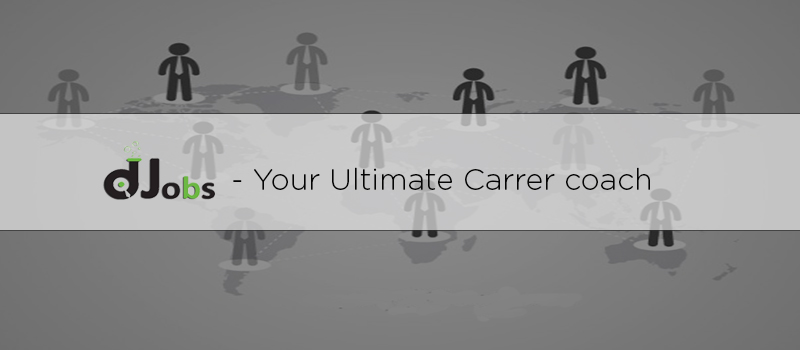
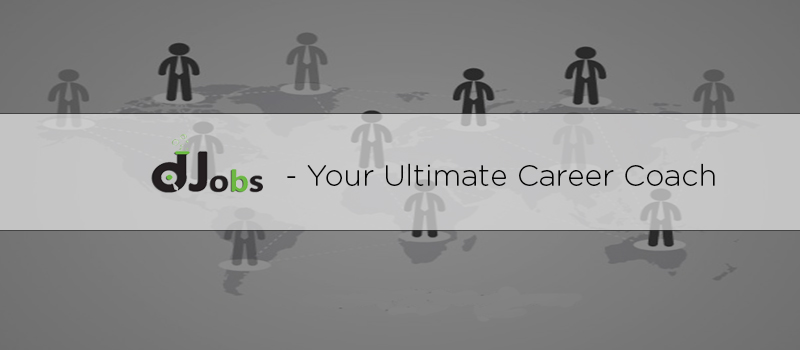
beta final

Changed region(s): [[0.125, 0.4286, 0.9062, 0.5714]]

diff --git a/about.html b/about.html
@@ -66,7 +66,7 @@ body {
                         <li style="height:50%;"><a href="about.html">About</a></li>
                         <li style="height:50%;"><a href="blog.html">Blog</a></li>
                         <li style="height:50%;"><a href="service.html">Services</a></li>
-                        <li style="height:50%;"><a href="talents.html">Available Talents</a></li>
+                        <!--<li style="height:50%;"><a href="talents.html">Available Talents</a></li>-->
                         <li style="height:50%;"><a href="news.html">News</a></li>
                         <li style="height:50%;"><a href="contact.html">Contact</a></li>
                     </ul>
@@ -96,7 +96,7 @@ body {
                         <li style="height:50%;"><a style="color:#000;" href="about.html">About</a></li>
                         <li style="height:50%;"><a style="color:#000;" href="blog.html">Blog</a></li>
                         <li style="height:50%;"><a style="color:#000;" href="service.html">Services</a></li>
-                        <li style="height:50%;"><a style="color:#000;" href="talent.html">Available Talents</a></li>
+                        <!--<li style="height:50%;"><a href="talents.html">Available Talents</a></li>-->
                         <li style="height:50%;"><a style="color:#000;" href="news.html">News</a></li>
                         <li style="height:50%;"><a style="color:#000;" href="contact.html">Contact</a></li>
                     </ul>
@@ -122,7 +122,7 @@ body {
                     <p style="font-size:18px;padding-left:20px">
                         We started to work as placement firm working for our customer's needs that we are still doing. While doing this we faced a lot of challenges starting from convincing candidates to attend interview at company's locations and vice versa. Bringing candidates and the panel on the same board was a big challenge.
                         <br> This triggered us to think of a solution as, why cant we <b>find candidates near to companies or companies near to candidates.</b> We searched for readily available platforms. We could find none. We did a small experiment on solution model and found success. We thought of using this technology to address this problem efficiently. Thus the recruitment app "djobs" was born!
-                        <br><b>Djobs</b> helps candidates to find jobs near their home location or preferred location. For example, you stay in Malleswaram and with the help of djobs you can find jobs around Malleswaram or any of your preferred locations. As a recruiter I have faced friend and even distant relatives sending resumes of their kith and kin asking for suitable jobs. Like this we used to get lot of applications. We tried to get them placed but we were never 100% successful as profiles also had to match the requirements.
+                        <br><b>djobs</b> helps candidates to find jobs near their home location or preferred location. For example, you stay in Malleswaram and with the help of djobs you can find jobs around Malleswaram or any of your preferred locations. As a recruiter I have faced friend and even distant relatives sending resumes of their kith and kin asking for suitable jobs. Like this we used to get lot of applications. We tried to get them placed but we were never 100% successful as profiles also had to match the requirements.
                         <br> As per the job survey there are more than 20% hike in hiring year on year from 2014 onwards. We also know that there are more talents available. But there are no proper platform to connect the dots. Few lucky get through in the interview drives and few will not. We wanted to bridge this gap. One such weapon was Hackathon. However, in hackathons only the ones who attended other hackathons used to attend. To fix this issue, we thought of creating more awarenesswe to attract more and fresh talents to hackathons. Thus came our tech meetups called - <b>"Bangalore Tech Talk"</b>.
                         <br> Under this meetup platform, we bring industry specialists and share the trending technologies with aspiring attendees. This is an on going project. Because as some on say <b>"Never stop learning as the life never stops teaching"</b> Despite all these the gap could not be closed. Ironically the unemploymet and the opportunities were raising side by side. This gave us the idea of Notifications feature in our app djobs. Anyways those who are looking for jobs would / should surely be keeping their ears and eyes open on job related events too such as - Job related events here means Meetups, Hands on sessions, tech talks, job talks, walk-in interviews, hacks, etc. djobs evolved further to suit the needs as a career coach too. Through djobs we aim to share the job opportunities availabe and also share notifications on job related topics. So <b>download djobs</b> and stay updated and tuned with trending jobs and job related informations. Search in playstore by giving "djobs dexter" to get our app. Rest is our responsibility to curate jobs and job related events for you. Now we are on a job to find you a suitable job.
                         <br>Just to backup our objective i.e. Changing the style of Hiring and making it better, we just launched <b>Dexter Exit</b>. A unique exit interview model which helps companies to achieve better brand value in the short term and better hiring positioning in the long term.</p>

diff --git a/index.html b/index.html
@@ -89,7 +89,7 @@
                         <li style="height:50%;"><a href="about.html">About</a></li>
                         <li style="height:50%;"><a href="blog.html">Blog</a></li>
                         <li style="height:50%;"><a href="service.html">Services</a></li>
-                        <li style="height:50%;"><a href="talents.html">Available Talents</a></li>
+                        <!--<li style="height:50%;"><a href="talents.html">Available Talents</a></li>-->
                         <li style="height:50%;"><a href="news.html">News</a></li>
                         <li style="height:50%;"><a href="contact.html">Contact</a></li>
                     </ul>
@@ -119,7 +119,7 @@
                         <li style="height:50%;"><a style="color:#000;" href="about.html">About</a></li>
                         <li style="height:50%;"><a style="color:#000;" href="blog.html">Blog</a></li>
                         <li style="height:50%;"><a style="color:#000;" href="service.html">Services</a></li>
-                        <li style="height:50%;"><a style="color:#000;" href="talent.html">Available Talents</a></li>
+                        <!--<li style="height:50%;"><a href="talents.html">Available Talents</a></li>-->
                         <li style="height:50%;"><a style="color:#000;" href="news.html">News</a></li>
                         <li style="height:50%;"><a style="color:#000;" href="contact.html">Contact</a></li>
                     </ul>
@@ -187,29 +187,32 @@
                 <hr style="border:2px solid #efeff4;width:260px">
                 <br>
                 <div class="row" id="service">
-                    <div class="col-sm-3 col-sm-offset-1" id="m_bottom">
-                        <a href="#">
-                            <img class="service" src="static/img/talent.jpg" width="200" height="80">
-                        </a>
-                    </div>
-                    <div class="col-sm-3 ">
-                        <a href="#">
+                    
+                    <div class="col-sm-3 col-sm-offset-1">
+                        <a href="service.html#djobs">
                             <img class="service" src="static/img/djobs.jpg" width="140" height="100">
                         </a>
                     </div>
                     <div class="col-sm-3" style="margin-left:-8%;">
-                        <a href="#">
+                        <a href="service.html#hack">
                             <img class="service" src="static/img/hack.jpg" width="200" height="100">
                         </a>
                     </div>
                     <div class="col-sm-3" style="margin-left:-3%;">
-                        <a href="#">
+                        <a href="service.html#techtalk">
                             <img class="service" src="static/img/techtalk.jpg" width="200" height="100">
+                        </a>
+                    </div>
+                    <div class="col-sm-3 " id="m_bottom">
+                        <a href="service.html#exit">
+                            <img class="service" src="static/img/exit.png" width="200" height="100">
                         </a>
                     </div>
                 </div>
                 <br>
+                <a href="service.html">
                 <h4 align="center"> Learn More >></h4>
+                </a>
                 <br>
             </div>
         </div>
@@ -236,7 +239,8 @@
                     <br>
                     <br>
                 </p>
-                <button class="btn btn-default" style="margin-left:50%;">Learn More >></button>
+                <a href="about.html">
+                <button class="btn btn-default" style="margin-left:50%;">Learn More >></button></a>
             </div>
         </div>
     </div>
@@ -362,7 +366,7 @@
                     <h3 style="text-align:center;padding-top:11%;margin-left:10%;">1st Hackathon (6 till now)</h3>
                 </div>
                 <div class="box effect2" style="margin-left:-40%;margin-bottom:5%;">
-                    <h3 style="text-align:center;padding-top:11%;margin-left:10%;">Djobs, Our 1st App</h3>
+                    <h3 style="text-align:center;padding-top:11%;margin-left:10%;">djobs, Our 1st App</h3>
                 </div>
                 <div class="arrow">
                     <div class="arrow-up" style="margin-left:-4%;"></div>
@@ -450,7 +454,7 @@ $(".upper1").click(function() {
 }
 
 #preloader {
-    position: absolute;
+    position: fixed;
     top: 0;
     left: 0;
     right: 0;

diff --git a/service.html b/service.html
@@ -23,8 +23,8 @@ body {
     transition: all 0.3s ease;
 }
 #preloader {
-    position: absolute;
-    top: 24%;
+    position: fixed;
+    top: 0%;
     left: 0;
     right: 0;
     bottom: 0;
@@ -66,7 +66,7 @@ body {
                         <li style="height:50%;"><a href="about.html">About</a></li>
                         <li style="height:50%;"><a href="blog.html">Blog</a></li>
                         <li style="height:50%;"><a href="service.html">Services</a></li>
-                        <li style="height:50%;"><a href="talents.html">Available Talents</a></li>
+                        <!--<li style="height:50%;"><a href="talents.html">Available Talents</a></li>-->
                         <li style="height:50%;"><a href="news.html">News</a></li>
                         <li style="height:50%;"><a href="contact.html">Contact</a></li>
                     </ul>
@@ -96,7 +96,7 @@ body {
                         <li style="height:50%;"><a style="color:#000;" href="about.html" >About</a></li>
                         <li style="height:50%;"><a style="color:#000;" href="blog.html">Blog</a></li>
                         <li style="height:50%;"><a style="color:#000;" href="service.html">Services</a></li>
-                        <li style="height:50%;"><a style="color:#000;" href="talent.html">Available Talents</a></li>
+                        <!--<li style="height:50%;"><a href="talents.html">Available Talents</a></li>-->
                         <li style="height:50%;"><a style="color:#000;" href="news.html">News</a></li>
                         <li style="height:50%;"><a style="color:#000;" href="contact.html">Contact</a></li>
                     </ul>
@@ -117,7 +117,7 @@ body {
     </div>
     <br>
     <div class="row" style="margin-left:10px;">
-        <div class="col-sm-12" style="float:left;border:1px solid #ccc;margin-right:5px;background:#fff;width:98%;box-shadow: 0 0 10px #cccccc;">
+        <div class="col-sm-12" style="float:left;border:1px solid #ccc;margin-right:5px;background:#fff;width:98%;box-shadow: 0 0 10px #cccccc;" id="djobs">
             <br>
             <div class="row">
                 <div class="col-sm-5">
@@ -135,7 +135,7 @@ body {
     <br>
     <br>
     <div class="row" style="margin-left:10px;">
-        <div class="col-sm-12" style="float:left;border:1px solid #ccc;margin-right:5px;background:#fff;width:98%;box-shadow: 0 0 10px #cccccc;">
+        <div class="col-sm-12" style="float:left;border:1px solid #ccc;margin-right:5px;background:#fff;width:98%;box-shadow: 0 0 10px #cccccc;" id="hack">
             <br>
             <div class="row">
                 <div class="col-sm-7">
@@ -152,7 +152,7 @@ body {
     <br>
     <br>
     <div class="row" style="margin-left:10px;">
-        <div class="col-sm-12" style="float:left;border:1px solid #ccc;margin-right:5px;background:#fff;width:98%;box-shadow: 0 0 10px #cccccc;">
+        <div class="col-sm-12" style="float:left;border:1px solid #ccc;margin-right:5px;background:#fff;width:98%;box-shadow: 0 0 10px #cccccc;" id="exit">
             <br>
             <div class="row">
                 <div class="col-sm-5" style="margin-top:-1.5%;margin-left:-1.2%;">
@@ -169,7 +169,7 @@ body {
     <br>
     <br>
     <div class="row" style="margin-left:10px;">
-        <div class="col-sm-12" style="float:left;border:1px solid #ccc;margin-right:5px;background:#fff;width:98%;box-shadow: 0 0 10px #cccccc;">
+        <div class="col-sm-12" style="float:left;border:1px solid #ccc;margin-right:5px;background:#fff;width:98%;box-shadow: 0 0 10px #cccccc;" id="techtalk">
             <br>
             <div class="row">
                 <div class="col-sm-7">

diff --git a/contact.html b/contact.html
@@ -66,7 +66,7 @@ body {
                         <li style="height:50%;"><a href="about.html">About</a></li>
                         <li style="height:50%;"><a href="blog.html">Blog</a></li>
                         <li style="height:50%;"><a href="service.html">Services</a></li>
-                        <li style="height:50%;"><a href="talents.html">Available Talents</a></li>
+                        <!--<li style="height:50%;"><a href="talents.html">Available Talents</a></li>-->
                         <li style="height:50%;"><a href="news.html">News</a></li>
                         <li style="height:50%;"><a href="contact.html">Contact</a></li>
                     </ul>
@@ -96,7 +96,7 @@ body {
                         <li style="height:50%;"><a style="color:#000;" href="about.html">About</a></li>
                         <li style="height:50%;"><a style="color:#000;" href="blog.html">Blog</a></li>
                         <li style="height:50%;"><a style="color:#000;" href="service.html">Services</a></li>
-                        <li style="height:50%;"><a style="color:#000;" href="talent.html">Available Talents</a></li>
+                        <!--<li style="height:50%;"><a href="talents.html">Available Talents</a></li>-->
                         <li style="height:50%;"><a style="color:#000;" href="news.html">News</a></li>
                         <li style="height:50%;"><a style="color:#000;" href="contact.html">Contact</a></li>
                     </ul>
@@ -162,7 +162,7 @@ body {
                     <br>
                     <br>
                     <div class="map" >
-                        <script src='https://maps.googleapis.com/maps/api/js?v=3.exp'></script>
+                        <script src='https://maps.googleapis.com/maps/api/js?v=3.exp&key=AIzaSyCahgXnBwsoDvkRvxY27J2ulwAz11NlYs4'></script>
                         <div style='overflow:hidden;height:300px;width:400px;'>
                             <div id='gmap_canvas' style='height:300px;width:400px;'></div>
                             <div><small><a href="http://embedgooglemaps.com">									embed google maps							</a></small></div>

diff --git a/coming.html b/coming.html
@@ -74,7 +74,7 @@ body {
                         <li style="height:50%;"><a href="about.html">About</a></li>
                         <li style="height:50%;"><a href="blog.html">Blog</a></li>
                         <li style="height:50%;"><a href="service.html">Services</a></li>
-                        <li style="height:50%;"><a href="talents.html">Available Talents</a></li>
+                        <!--<li style="height:50%;"><a href="talents.html">Available Talents</a></li>-->
                         <li style="height:50%;"><a href="news.html">News</a></li>
                         <li style="height:50%;"><a href="contact.html">Contact</a></li>
                     </ul>
@@ -104,7 +104,7 @@ body {
                         <li style="height:50%;"><a style="color:#000;" href="about.html">About</a></li>
                         <li style="height:50%;"><a style="color:#000;" href="blog.html">Blog</a></li>
                         <li style="height:50%;"><a style="color:#000;" href="service.html">Services</a></li>
-                        <li style="height:50%;"><a style="color:#000;" href="talent.html">Available Talents</a></li>
+                        <!--<li style="height:50%;"><a href="talents.html">Available Talents</a></li>-->
                         <li style="height:50%;"><a style="color:#000;" href="news.html">News</a></li>
                         <li style="height:50%;"><a style="color:#000;" href="contact.html">Contact</a></li>
                     </ul>

diff --git a/news.html b/news.html
@@ -74,7 +74,7 @@ body {
                         <li style="height:50%;"><a href="about.html">About</a></li>
                         <li style="height:50%;"><a href="blog.html">Blog</a></li>
                         <li style="height:50%;"><a href="service.html">Services</a></li>
-                        <li style="height:50%;"><a href="talents.html">Available Talents</a></li>
+                        <!--<li style="height:50%;"><a href="talents.html">Available Talents</a></li>-->
                         <li style="height:50%;"><a href="news.html">News</a></li>
                         <li style="height:50%;"><a href="contact.html">Contact</a></li>
                     </ul>
@@ -104,7 +104,7 @@ body {
                         <li style="height:50%;"><a style="color:#000;" href="about.html">About</a></li>
                         <li style="height:50%;"><a style="color:#000;" href="blog.html">Blog</a></li>
                         <li style="height:50%;"><a style="color:#000;" href="service.html">Services</a></li>
-                        <li style="height:50%;"><a style="color:#000;" href="talent.html">Available Talents</a></li>
+                        <!--<li style="height:50%;"><a href="talents.html">Available Talents</a></li>-->
                         <li style="height:50%;"><a style="color:#000;" href="news.html">News</a></li>
                         <li style="height:50%;"><a style="color:#000;" href="contact.html">Contact</a></li>
                     </ul>

diff --git a/blog.html b/blog.html
@@ -67,7 +67,7 @@ body {
                         <li style="height:50%;"><a href="about.html">About</a></li>
                         <li style="height:50%;"><a href="blog.html">Blog</a></li>
                         <li style="height:50%;"><a href="service.html">Services</a></li>
-                        <li style="height:50%;"><a href="talents.html">Available Talents</a></li>
+                        <!--<li style="height:50%;"><a href="talents.html">Available Talents</a></li>-->
                         <li style="height:50%;"><a href="news.html">News</a></li>
                         <li style="height:50%;"><a href="contact.html">Contact</a></li>
                     </ul>
@@ -97,7 +97,7 @@ body {
                         <li style="height:50%;"><a style="color:#000;" href="about.html" >About</a></li>
                         <li style="height:50%;"><a style="color:#000;" href="blog.html">Blog</a></li>
                         <li style="height:50%;"><a style="color:#000;" href="service.html">Services</a></li>
-                        <li style="height:50%;"><a style="color:#000;" href="talent.html">Available Talents</a></li>
+                        <!--<li style="height:50%;"><a href="talents.html">Available Talents</a></li>-->
                         <li style="height:50%;"><a style="color:#000;" href="news.html">News</a></li>
                         <li style="height:50%;"><a style="color:#000;" href="contact.html">Contact</a></li>
                     </ul>
